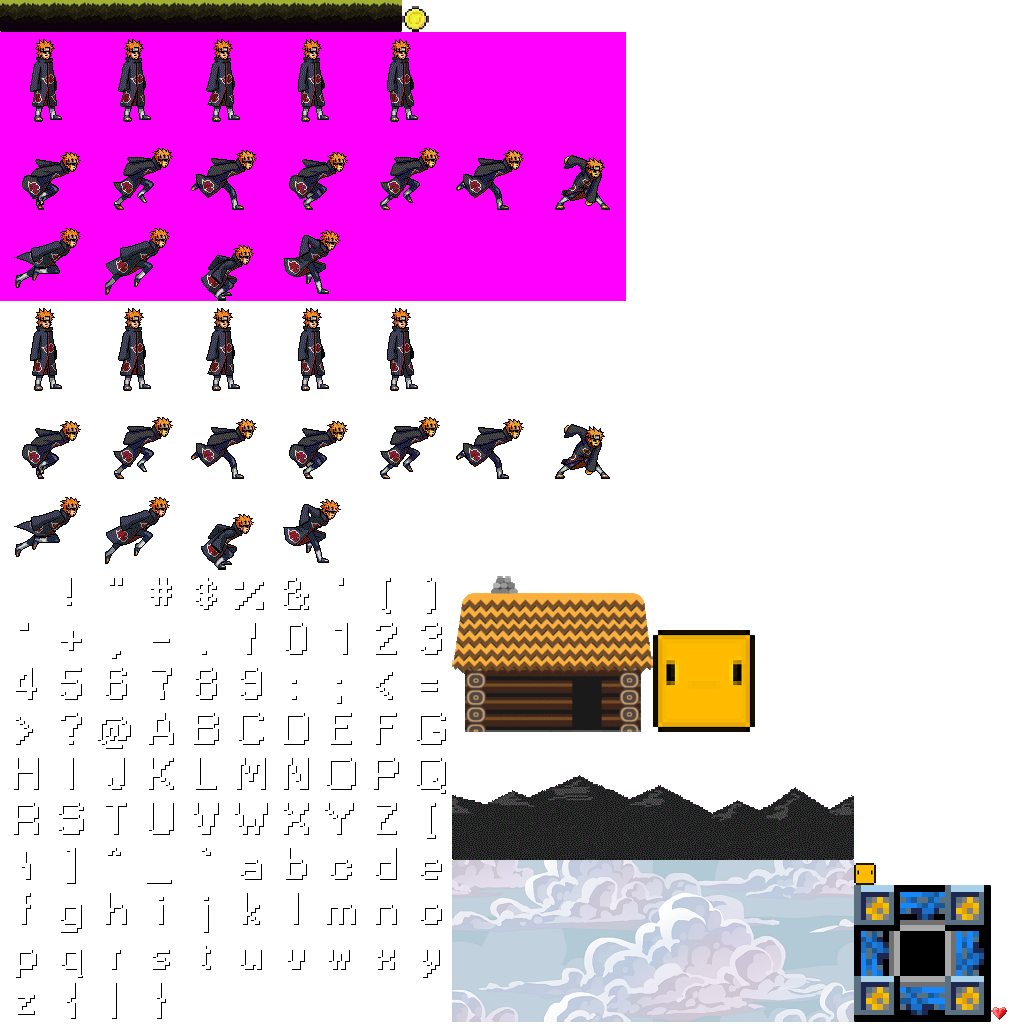
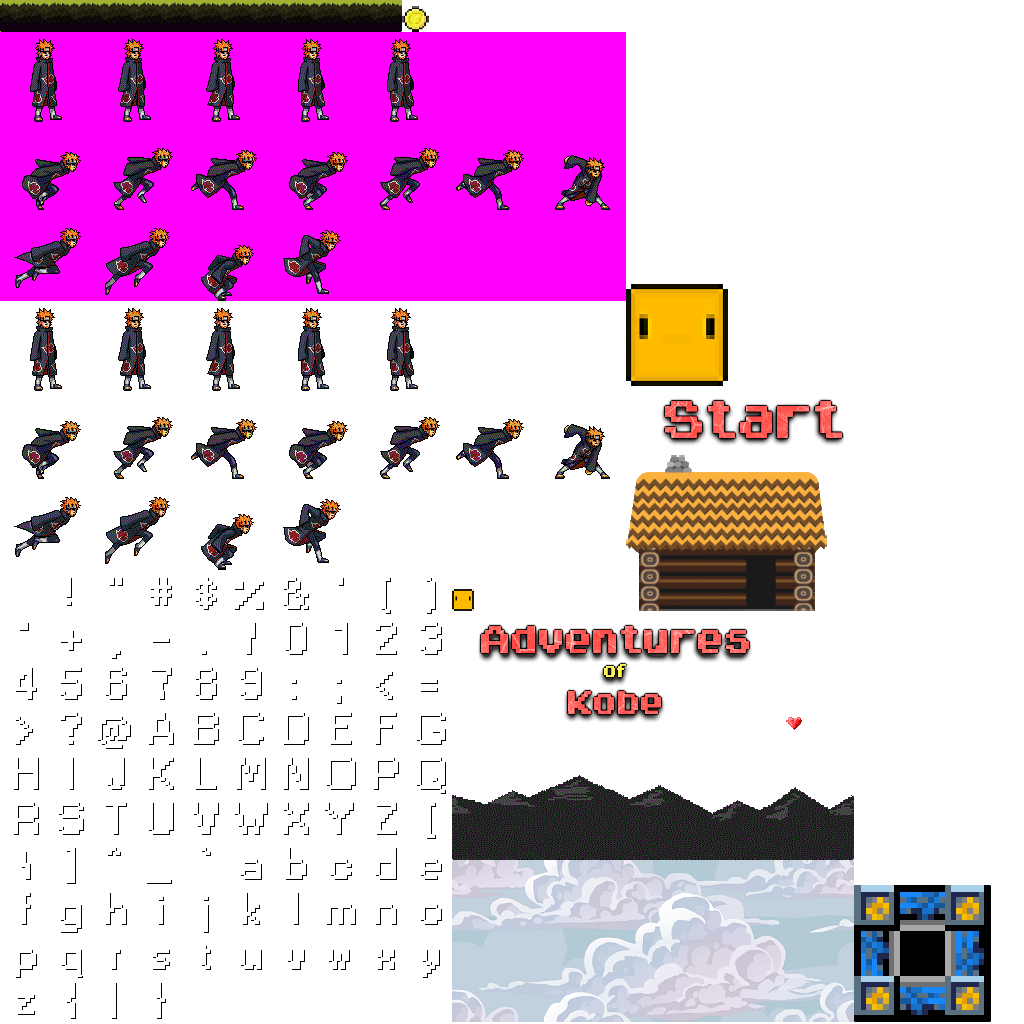
November 14, 2015 - Commit 5
Improved Menu U.I.

Better death transition
Removed fly animation
Fixed toggleStop() on PlayState and Hero

Finalizing the game:
TODO:
- U.I. for Main
- U.I. for Play
- U.I. for Game Over
- Sounds and music.
- Sprites and animations.

Changed region(s): [[0.4375, 0.25, 0.8438, 0.7188], [0.8125, 0.8438, 0.875, 0.875], [0.9688, 0.9688, 1.0, 1.0]]

diff --git a/core/src/com/mygdx/runrunrun/states/MenuState.java b/core/src/com/mygdx/runrunrun/states/MenuState.java
@@ -4,9 +4,12 @@ import com.badlogic.gdx.Gdx;
 import com.badlogic.gdx.graphics.Color;
 import com.badlogic.gdx.graphics.GL20;
 import com.badlogic.gdx.graphics.g2d.SpriteBatch;
+import com.badlogic.gdx.graphics.g2d.TextureRegion;
 import com.badlogic.gdx.graphics.glutils.ShapeRenderer;
+import com.badlogic.gdx.math.Rectangle;
 import com.mygdx.runrunrun.Main;
 import com.mygdx.runrunrun.ui.TextImage;
+
 
 /**
  * Created by 343076 on 21/09/2015.
@@ -16,8 +19,14 @@ public class MenuState extends State {
     //private TextImage name;
     private TextImage gold;
     private TextImage highScore;
-    private TextImage title;
-    private TextImage startButton;
+
+    //private TextImage title;
+    //private TextImage startButton;
+
+    private TextureRegion title;
+    private TextureRegion startButton;
+
+    private Rectangle startRect;
 
     public MenuState(GSM gsm){
         super(gsm);
@@ -31,16 +40,26 @@ public class MenuState extends State {
         exitTransition = false;
 
         //name = new TextImage("" + Main.pref.getName(), Main.WIDTH/2, Main.HEIGHT/2 - 50, 1);
-        gold = new TextImage("GOLD: " + Main.pref.getGold(), Main.WIDTH/2, Main.HEIGHT/2 - 100, 1);
-        title = new TextImage("KOBE", Main.WIDTH/2, Main.HEIGHT/2 + 100,1);
-        startButton = new TextImage("START", Main.WIDTH/2, Main.HEIGHT/2 + 50,1);
-        highScore = new TextImage("HIGH SCORE: " + Main.pref.getHighScore(), Main.WIDTH/2, Main.HEIGHT/2,1);
+        //title = new TextImage("KOBE", Main.WIDTH/2, Main.HEIGHT/2 + 100,1);
+        //startButton = new TextImage("START", Main.WIDTH/2, Main.HEIGHT/2 + 50,1);
+
+        title = new TextureRegion(Main.resource.getAtlas("assets").findRegion("title"));
+        startButton = new TextureRegion(Main.resource.getAtlas("assets").findRegion("start"));
+        startRect = new Rectangle(Main.WIDTH/2 - startButton.getRegionWidth()/2, Main.HEIGHT/2 - startButton.getRegionHeight()/2,startButton.getRegionWidth(),startButton.getRegionHeight());
+
+        highScore = new TextImage("HIGH SCORE:" + Main.pref.getHighScore(), 0, 0,0.5f);
+        gold = new TextImage("GOLD:" + Main.pref.getGold(), 0,0, 0.5f);
+
+        highScore.update(Main.WIDTH/2 + highScore.getWidth()/2, Main.HEIGHT/2 - 160);
+        gold.update(Main.WIDTH/2 + gold.getWidth()/2, Main.HEIGHT/2 - 130);
+
+        highScore.setTextHide(false);
+        gold.setTextHide(false);
 
         //name.setTextHide(false);
-        gold.setTextHide(false);
-        title.setTextHide(false);
-        startButton.setTextHide(false);
-        highScore.setTextHide(false);
+        //title.setTextHide(false);
+        //startButton.setTextHide(false);
+
 
     }
 
@@ -61,7 +80,7 @@ public class MenuState extends State {
             mouse.set(Gdx.input.getX(), Gdx.input.getY(), 0);
             cam.unproject(mouse);
 
-            if(startButton.contains(mouse.x, mouse.y)) {
+            if(startRect.contains(mouse.x,mouse.y)){
                 Main.sounds.playSound("select");
                 exitTransition = true;
                 exitTransitionVal = 0f;
@@ -92,11 +111,14 @@ public class MenuState extends State {
         sb.setProjectionMatrix((cam.combined));
         sb.begin();
 
-        //name.render(sb);
+
         gold.render(sb);
-        title.render(sb);
-        startButton.render(sb);
+        sb.draw(title, Main.WIDTH/2 - title.getRegionWidth()/2, Main.HEIGHT/2 + 60);
+        sb.draw(startButton, startRect.getX(), startRect.getY());
         highScore.render(sb);
+        //name.render(sb);
+        //title.render(sb);
+        //startButton.render(sb);
 
         sb.end();
     }
